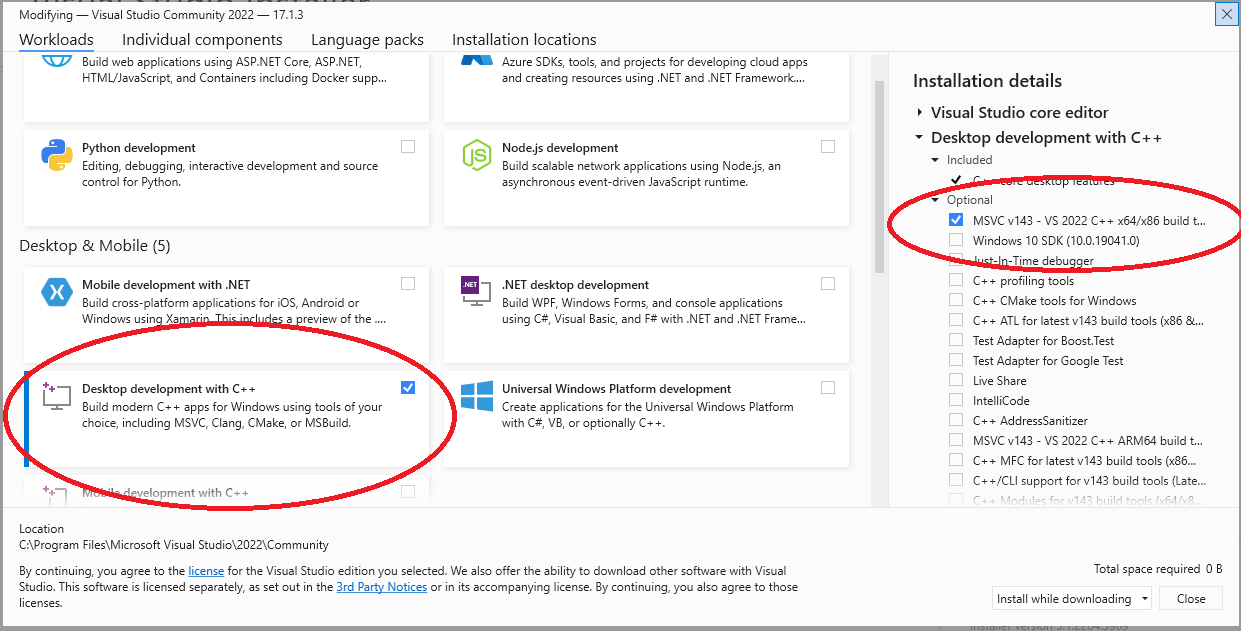
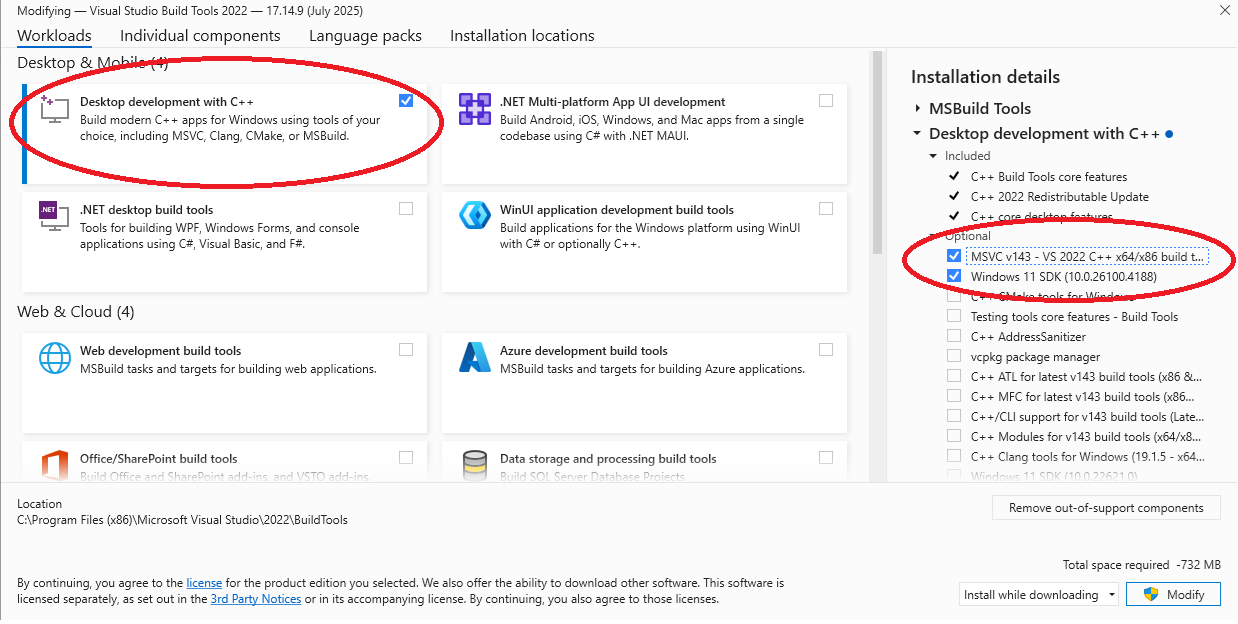
dependancy cleanup for better builds and some minor bugs

diff --git a/mailbagit/derivatives/warc.py b/mailbagit/derivatives/warc.py
@@ -10,6 +10,7 @@ from warcio import WARCWriter
 from warcio.statusandheaders import StatusAndHeaders
 from warcio.timeutils import datetime_to_http_date
 import requests  # requests *must* be imported after capture_http
+from requests.exceptions import ChunkedEncodingError
 import json
 import urllib.parse
 from io import BytesIO
@@ -174,28 +175,37 @@ class WarcDerivative(Derivative):
         """
         url_page_requisites = []
         i = 0
-        while i < len(urls):
-            log.debug("capturing " + urls[i])
+        for url in urls:
+            log.debug("capturing " + url)
             # validate url
-            if self.validate_url(urls[i], errors):
+            if self.validate_url(url, errors):
                 with capture_http(warc_writer):
                     # First try with SSL verification. If fails, raise a warning and turn off
                     try:
-                        r = session.get(urls[i], headers=request_headers)
+                        r = session.get(url, headers=request_headers, stream=True, timeout=20)
+                        try:
+                            content = r.content  # force load to detect errors
+                        except ChunkedEncodingError as e:
+                            desc = f"ChunkedEncodingError for {url}, retrying without stream."
+                            errors = common.handle_error(errors, e, desc, "warn")
+                            # Retry without streaming
+                            r = session.get(url, headers=request_headers, stream=False, timeout=20)
+                            content = r.content
                         if r.status_code != 200:
-                            desc = f"When writing WARC derivative, HTTP {r.status_code} {r.reason} for external resource {urls[i]}"
+                            desc = f"When writing WARC derivative, HTTP {r.status_code} {r.reason} for external resource {url}"
                             errors = common.handle_error(errors, None, desc, "warn")
-                        if "content-type" in r.headers.keys():
+
+                        if "content-type" in r.headers:
                             if "text/html" in r.headers["content-type"]:
-                                # Gotta get these external resources as well
-                                new_soup = BeautifulSoup(r.text, "html.parser")
+                                new_soup = BeautifulSoup(content, "html.parser")
                                 new_external_urls = self.html_external_resources(new_soup, r.url)
                                 url_page_requisites.extend(new_external_urls)
                             elif r.headers["content-type"] == "text/css":
-                                new_external_urls = self.css_external_resources(r.text, r.url)
+                                new_external_urls = self.css_external_resources(content.decode("utf-8", errors="ignore"), r.url)
                                 url_page_requisites.extend(new_external_urls)
-                    except Exception as e:
-                        desc = f"Failed to request external URL for WARC derivatives ({urls[i]})"
+
+                    except requests.exceptions.RequestException as e:
+                        desc = f"Failed to request external URL for WARC derivatives ({url})"
                         errors = common.handle_error(errors, e, desc)
             i += 1
         return session, warc_writer, list(dict.fromkeys(url_page_requisites)), errors

diff --git a/setup.py b/setup.py
@@ -1,12 +1,13 @@
 # /usr/bin/env python3
 import setuptools
+import sys
 
 with open("README.md", "r", encoding="utf-8") as fh:
     long_description = fh.read()
 
 setuptools.setup(
     name="mailbagit",
-    version="0.7.3",
+    version="0.7.4",
     author="Gregory Wiedeman",
     author_email="gwiedeman@albany.edu",
     description="A tool for preserving email in multiple preservation formats.",
@@ -23,11 +24,11 @@ setuptools.setup(
     install_requires=[
         "bagit>=1.8.1,<2",
         "beautifulsoup4>=4.11.1,<5",
-        "black>=22.1.0,<23",
+        "black>=23.7,<26",
         "jsonmodels>=2.2,<=2.5.0",
         "extract_msg>=0.42.0",
         "structlog>=21.1.0,<22",
-        "packaging>=21.0,<21.3",
+        "packaging>=21.0,<25",
         "python-json-logger>=2.0.2,<3",
         "pyparsing>=2.1.0,<3",
         "pytest>=7.0.1,<8",
@@ -37,13 +38,11 @@ setuptools.setup(
         "requests >=2.27.1,<3",
         "cssutils >=2.4.2,<3",
         "python-json-logger >=2.0.2,<3",
-        # for black
-        "typed-ast>=1.5.3,<2",
     ],
     extras_require={
         "gui": ["gooey>=1.0.8.1,<2"],
-        "pst": ["libpff-python==20211114"],
+        "pst": ["libpff-python==20231205"],
         "dev": ["pyinstaller==5.0.1,<6"],
     },
-    python_requires=">=3.8",
+    python_requires=">=3.9",
 )

diff --git a/mailbagit/formats/eml.py b/mailbagit/formats/eml.py
@@ -46,8 +46,8 @@ class EML(EmailAccount):
         if os.path.isfile(self.path):
             return 1
         count = 0
-        for _ in chain((files for _, _, files in os.walk(self.path))):
-            count += 1
+        for file in chain.from_iterable((files for _, _, files in os.walk(self.path))):
+            if '.eml' in file: count += 1
         return count
 
     def messages(self):
@@ -145,9 +145,10 @@ class EML(EmailAccount):
                 message = Email(Errors=errors)
 
             # Move EML to new mailbag directory structure
-            new_path, errors = format.moveWithDirectoryStructure(
+            new_path, new_errors = format.moveWithDirectoryStructure(
                 self.dry_run, self.keep, self.source_parent_dir, self.mailbag_dir, self.mailbag_name, self.format_name, filePath, errors
             )
+            errors.extend(new_errors)
             message.Errors.extend(errors)
 
             yield message

diff --git a/mailbagit/formats/pst.py b/mailbagit/formats/pst.py
@@ -355,7 +355,7 @@ if not skip_registry:
 
                 # Move PST to new mailbag directory structure
                 if not iteration_only:
-                    new_path, errors = format.moveWithDirectoryStructure(
+                    new_path, new_errors = format.moveWithDirectoryStructure(
                         self.dry_run,
                         self.keep,
                         self.source_parent_dir,
@@ -366,6 +366,7 @@ if not skip_registry:
                         # Does not check path lengths for PSTs
                         errors,
                     )
+                errors.extend(new_errors)
 
             if self.companion_files:
                 # Move all files into mailbag directory structure

diff --git a/mailbagit/formats/mbox.py b/mailbagit/formats/mbox.py
@@ -153,9 +153,10 @@ class Mbox(EmailAccount):
             # Move MBOX to new mailbag directory structure
             if not iteration_only:
                 # Does not check path lengths for MBOXs because `errors` was already returned to the controller
-                new_path, errors = format.moveWithDirectoryStructure(
+                new_path, new_errors = format.moveWithDirectoryStructure(
                     self.dry_run, self.keep, self.source_parent_dir, self.mailbag_dir, self.mailbag_name, self.format_name, filePath, errors
                 )
+                errors.extend(new_errors)
 
         if self.companion_files:
             # Move all files into mailbag directory structure

diff --git a/mailbagit/derivatives/pdf.py b/mailbagit/derivatives/pdf.py
@@ -1,6 +1,6 @@
 import os
+import shutil
 import subprocess
-import distutils.spawn
 from mailbagit.derivative import Derivative
 from mailbagit.loggerx import get_logger
 import mailbagit.helper.derivative as derivative
@@ -10,9 +10,9 @@ import mailbagit.helper.common as common
 # pst is not supported otherwise
 skip_registry = False
 try:
-    if distutils.spawn.find_executable("wkhtmltopdf.exe"):
+    if shutil.which("wkhtmltopdf.exe"):
         wkhtmltopdf = "wkhtmltopdf.exe"
-    elif distutils.spawn.find_executable("wkhtmltopdf"):
+    elif shutil.which("wkhtmltopdf"):
         wkhtmltopdf = "wkhtmltopdf"
     else:
         skip_registry = True

diff --git a/mailbagit/derivatives/pdf_chrome.py b/mailbagit/derivatives/pdf_chrome.py
@@ -1,6 +1,6 @@
 import os
+import shutil
 import subprocess
-import distutils.spawn
 from mailbagit.derivative import Derivative
 from mailbagit.loggerx import get_logger
 import mailbagit.helper.derivative as derivative
@@ -11,7 +11,7 @@ skip_registry = False
 
 try:
     chromes = ["google-chrome", "Google Chrome", "chrome.exe", "chrome"]
-    chrome = next((c for c in chromes if distutils.spawn.find_executable(c)), None)
+    chrome = next((c for c in chromes if shutil.which(c)), None)
     skip_registry = True if chrome is None else False
 
 except:

diff --git a/mailbagit/formats/msg.py b/mailbagit/formats/msg.py
@@ -228,9 +228,10 @@ class MSG(EmailAccount):
                 mail.close()
 
             # Move MSG to new mailbag directory structure
-            new_path, errors = format.moveWithDirectoryStructure(
+            new_path, new_errors = format.moveWithDirectoryStructure(
                 self.dry_run, self.keep, self.source_parent_dir, self.mailbag_dir, self.mailbag_name, self.format_name, filePath, errors
             )
+            errors.extend(new_errors)
             message.Errors.extend(errors)
 
             yield message

diff --git a/mailbagit/__init__.py b/mailbagit/__init__.py
@@ -1,7 +1,7 @@
 # __init__.py
 
 # Version of the mailbagit package
-__version__ = "0.7.3"
+__version__ = "0.7.4"
 
 import os
 from pathlib import Path

diff --git a/docs/installing_mailbagit/python.md b/docs/installing_mailbagit/python.md
@@ -23,28 +23,68 @@ pip install mailbagit
 
 ## Working with PST files
 
-Packaging mailbags from PST files requires additional dependencies. To install these, in addition to `pip install mailbagit`, you need to run:
+Packaging mailbags from PST files requires additional dependencies, notably `libpff-python`. To install these, in addition to `pip install mailbagit`, you need to run:
 
 ```
 pip install 'mailbagit[pst]'
 ```
 
-Installing this on Windows requires Visual Studio C++ Build Tools. Without this you will get an error. To rectify this:
+### Working with PST files on Windows
+
+Building `libpff-python` on Windows requires Visual Studio C++ Build Tools. Without this you will get an error. To rectify this:
 
 1. Install [Visual Studio 2022](https://visualstudio.microsoft.com/downloads/) (Community Edition works fine.)
-2. Using the Visual Studio installer, in the Workloads tab make sure to check at least **"Desktop development with C++"** and the **VS 2019 C++ x64/x86 build tools** in the Installation details optional settings on the right side.
+2. Using the Visual Studio installer, in the Workloads tab make sure to check at least **"Desktop development with C++"** the **VS 2019 C++ x64/x86 build tools**, and **Windows 10/11 SDK** in the Installation details optional settings on the right side.
 
 ![Screenshot of checking the correct options using the Visual Studio Installer.]({{ site.baseurl }}/img/windows_install.png)
 
-Once the VS 2019 C++ x64/x86 build tools are installed, you can exit the Visual Studio installer. You won't need to use it directly to run `mailbagit`, it is just required to install the PST dependencies.
+Once the VS 2019/2022 C++ x64/x86 build tools and the Windows 10/11 SDK are installed, you can exit the Visual Studio installer. You won't need to use it directly to run `mailbagit`, it is just required to install the PST dependencies.
 
-You should now be able install the PST dependencies with:
+You can now try installing the PST dependencies with:
 
 ```
 pip install 'mailbagit[pst]'
 ```
 
-If you have trouble installing the PST dependencies on Windows, try using the [Windows executables]({{ site.baseurl }}/exe).
+### Common Windows troubleshooting
+
+Once you've installed the C++ Build tools, environment issues can still cause building `libpff-python` on Windows to fail. Here are some common issues.
+
+1. `fatal error C1083: Cannot open include file: 'windows.h': No such file or directory`
+
+Check if you have a `Windows.h` file in `C:\Program Files (x86)\Windows Kits\10\Include\10.0.*\um\Windows.h`. If this file is present, this can be fixed by adding these paths in Powershell:
+```
+$env:INCLUDE = "C:\Program Files (x86)\Windows Kits\10\Include\10.0.26100.0\um;C:\Program Files (x86)\Windows Kits\10\Include\10.0.26100.0\shared;C:\Program Files (x86)\Windows Kits\10\Include\10.0.26100.0\ucrt;$env:INCLUDE"
+$env:LIB = "C:\Program Files (x86)\Windows Kits\10\Lib\10.0.26100.0\um\x64;C:\Program Files (x86)\Windows Kits\10\Lib\10.0.26100.0\ucrt\x64;$env:LIB"
+```
+Then retry:
+```
+pip install mailbagit[pst]
+```
+
+2. `fatal error C1083: Cannot open include file: 'ctype.h': No such file or directory`
+
+Check if you have a `ctype.h` file in `C:\Program Files (x86)\Windows Kits\10\Include\10.0.26100.0\ucrt\ctype.h`. If this file is present, this can be fixed by adding this path in Powershell:
+```
+$env:INCLUDE = "C:\Program Files (x86)\Windows Kits\10\Include\10.0.26100.0\ucrt;$env:INCLUDE"
+```
+Then retry:
+```
+pip install mailbagit[pst]
+```
+
+3. `LINK : fatal error LNK1158: cannot run 'rc.exe'`
+
+Check if you have a `rc.exe` file in `C:\Program Files (x86)\Windows Kits\10\bin\10.0.26100.0\x64\rc.exe`. If this file is present, this can be fixed by adding this path in Powershell:
+```
+$env:PATH = "C:\Program Files (x86)\Windows Kits\10\bin\10.0.26100.0\x64;$env:PATH"
+```
+Then retry:
+```
+pip install mailbagit[pst]
+```
+
+If you still have trouble installing the PST dependencies on Windows, try using the [Docker install]({{ site.baseurl }}/docker) or [Windows executables]({{ site.baseurl }}/exe).
 
 ## Using the Mailbagit Graphical User Interface (GUI)
 

diff --git a/docs/installing_mailbagit/docker.md b/docs/installing_mailbagit/docker.md
@@ -16,7 +16,36 @@ Once Docker is installed, you can download the mailbagit image with the command:
 docker pull ualbanyarchives/mailbagit
 ```
 
-To run the image as a Docker container, run:
+## Run with docker-compose.
+
+The simpiest way to run mailbagit in a docker container is with docker compose. For this you have to download the provided `docker-compose.yml` file at [https://raw.githubusercontent.com/UAlbanyArchives/mailbagit/main/docker-compose.yml](https://raw.githubusercontent.com/UAlbanyArchives/mailbagit/main/docker-compose.yml).
+
+Place the `docker-compose.yml` file in your working directory along with the data you are working with.
+```
+.
+└── my_folder/
+    ├── docker-compose.yml
+    ├── email_archive.mbox
+    └── export.pst
+```
+
+From this directory (`my_folder`) run:
+```
+docker compose run mailbagit
+```
+
+This will mount your current working directory inside the container at `/data`. You can then run `mailbagit` on the files in this `/data` directory.
+
+```
+/data
+  ├── docker-compose.yml
+  ├── email_archive.mbox
+  └── export.pst
+```
+
+## Run without docker-compose
+
+To run the image directly as a Docker container, run:
 
 ```
 docker run -it ualbanyarchives/mailbagit:latest bash
@@ -24,17 +53,7 @@ docker run -it ualbanyarchives/mailbagit:latest bash
 
 You should be able to run `mailbagit -h`, but you won't be able to do much without giving the container access to your filesystem with docker-compose or a bind mount.
 
-## Run with docker-compose.
-
-You can use the provided docker compose file, which will give the image access to your current directory.
-
-```
-docker pull ualbanyarchives/mailbagit
-wget https://raw.githubusercontent.com/UAlbanyArchives/mailbagit/main/docker-compose.yml
-docker compose run mailbagit
-```
-
-## Run with bind mount.
+### Run with bind mount.
 
 You can also use a bind mount to give the container and `mailbagit` access to another directory. docker-compose does this automatically.
 
@@ -59,6 +78,7 @@ You could also use
 type=bind,source="C:\Users\Me",target=/data
 ```
 which will make the file accessible as `/data/sampleData/export.pst`
+
 
 ## Using Docker Desktop
 
@@ -89,21 +109,4 @@ cd mailbagit
 git switch develop
 docker-compose -f docker-compose-dev.yml run mailbagit
 mailbagit -v
-```
-
-### Other helpful docker commands
-
-List running containers: 
-```
-docker ps
-```
-
-List images:
-```
-docker images
-```
-
-Delete image: 
-```
-docker image rm <image id> -f
 ```

diff --git a/release.md b/release.md
@@ -23,9 +23,9 @@ docker push ualbanyarchives/mailbagit:dev
 ## Build Windows executables
 
 ```
-pyinstaller --onefile mailbagit.py
-pyinstaller --onefile mailbagit-gui.py
-pyinstaller --onefile mailbagit-guided.py
+pyinstaller mailbagit.spec
+pyinstaller mailbagit-gui.spec
+pyinstaller mailbagit-guided.spec
 ```
 
 ## Build and push to pypi
